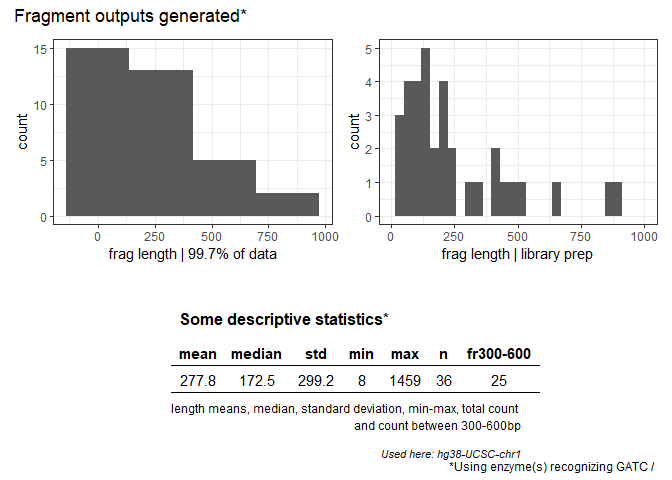
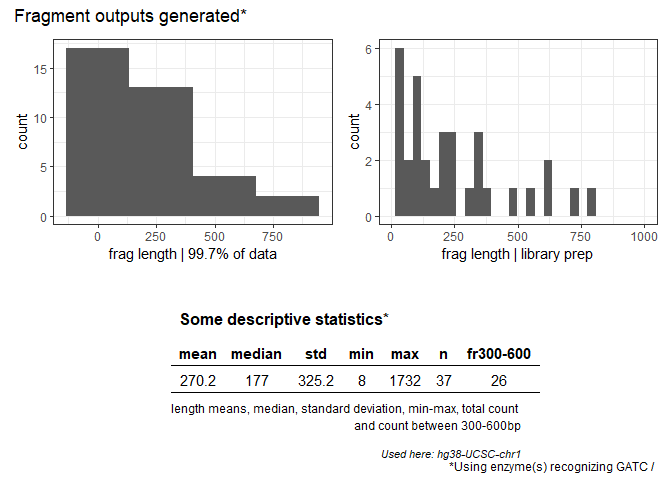
updated readme

diff --git a/README.md b/README.md
@@ -6,7 +6,9 @@
 <!-- badges: start -->
 <!-- badges: end -->
 
-The goal of FROGmentator is to …
+The goal of FROGmentator is to calculate fragment lengths upon template
+DNA fragmentation with specific pattern recognizing, (restriction)
+enzymes
 
 ## Installation
 
@@ -20,7 +22,7 @@ devtools::install_github("pauliusbaltrusis/FROGmentator")
 
 ## Example
 
-This is a basic example which shows you how to solve a common problem:
+This is a basic example which shows you what FROGmentor does:
 
 ``` r
 library(FROGmentator)
@@ -34,7 +36,7 @@ pattern1<-'GATC'
 FROG_pal_output<-FROG_pal(my_DNA, pattern1)
 
 head(FROG_pal_output) # fragment length sizes
-#> [1] 203  79 177   8 306 254
+#> [1]   8 791  21 216 207 611
 ```
 
 ``` r
